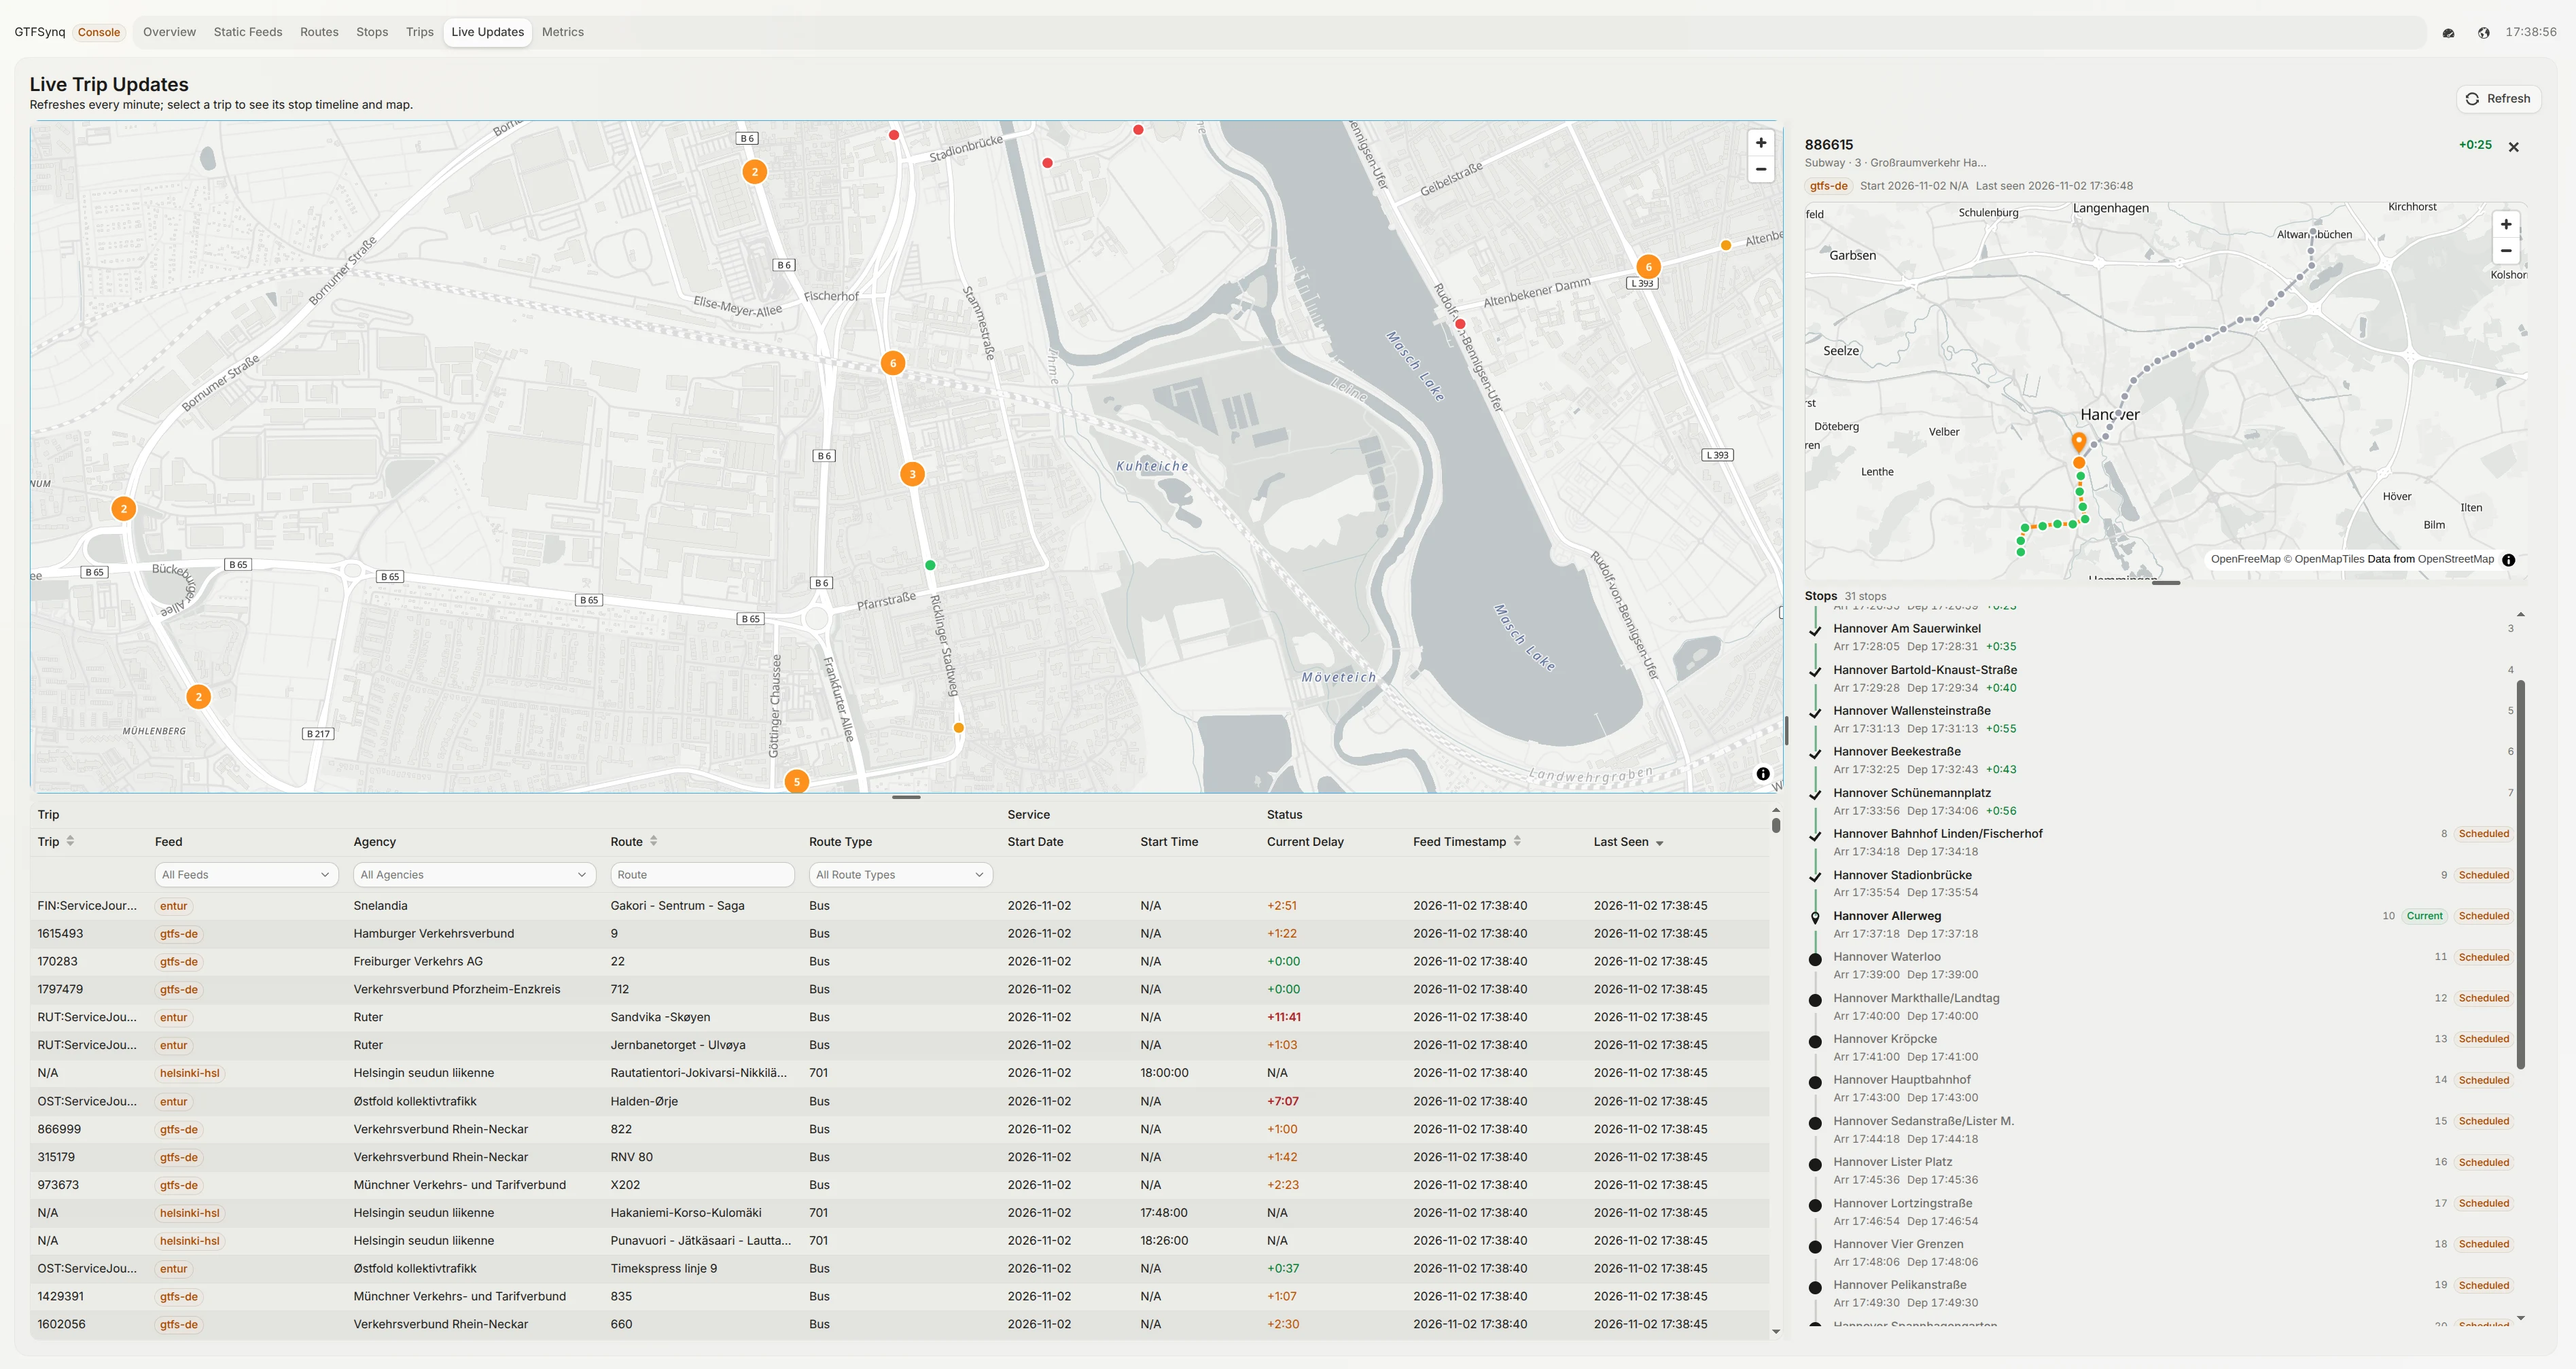
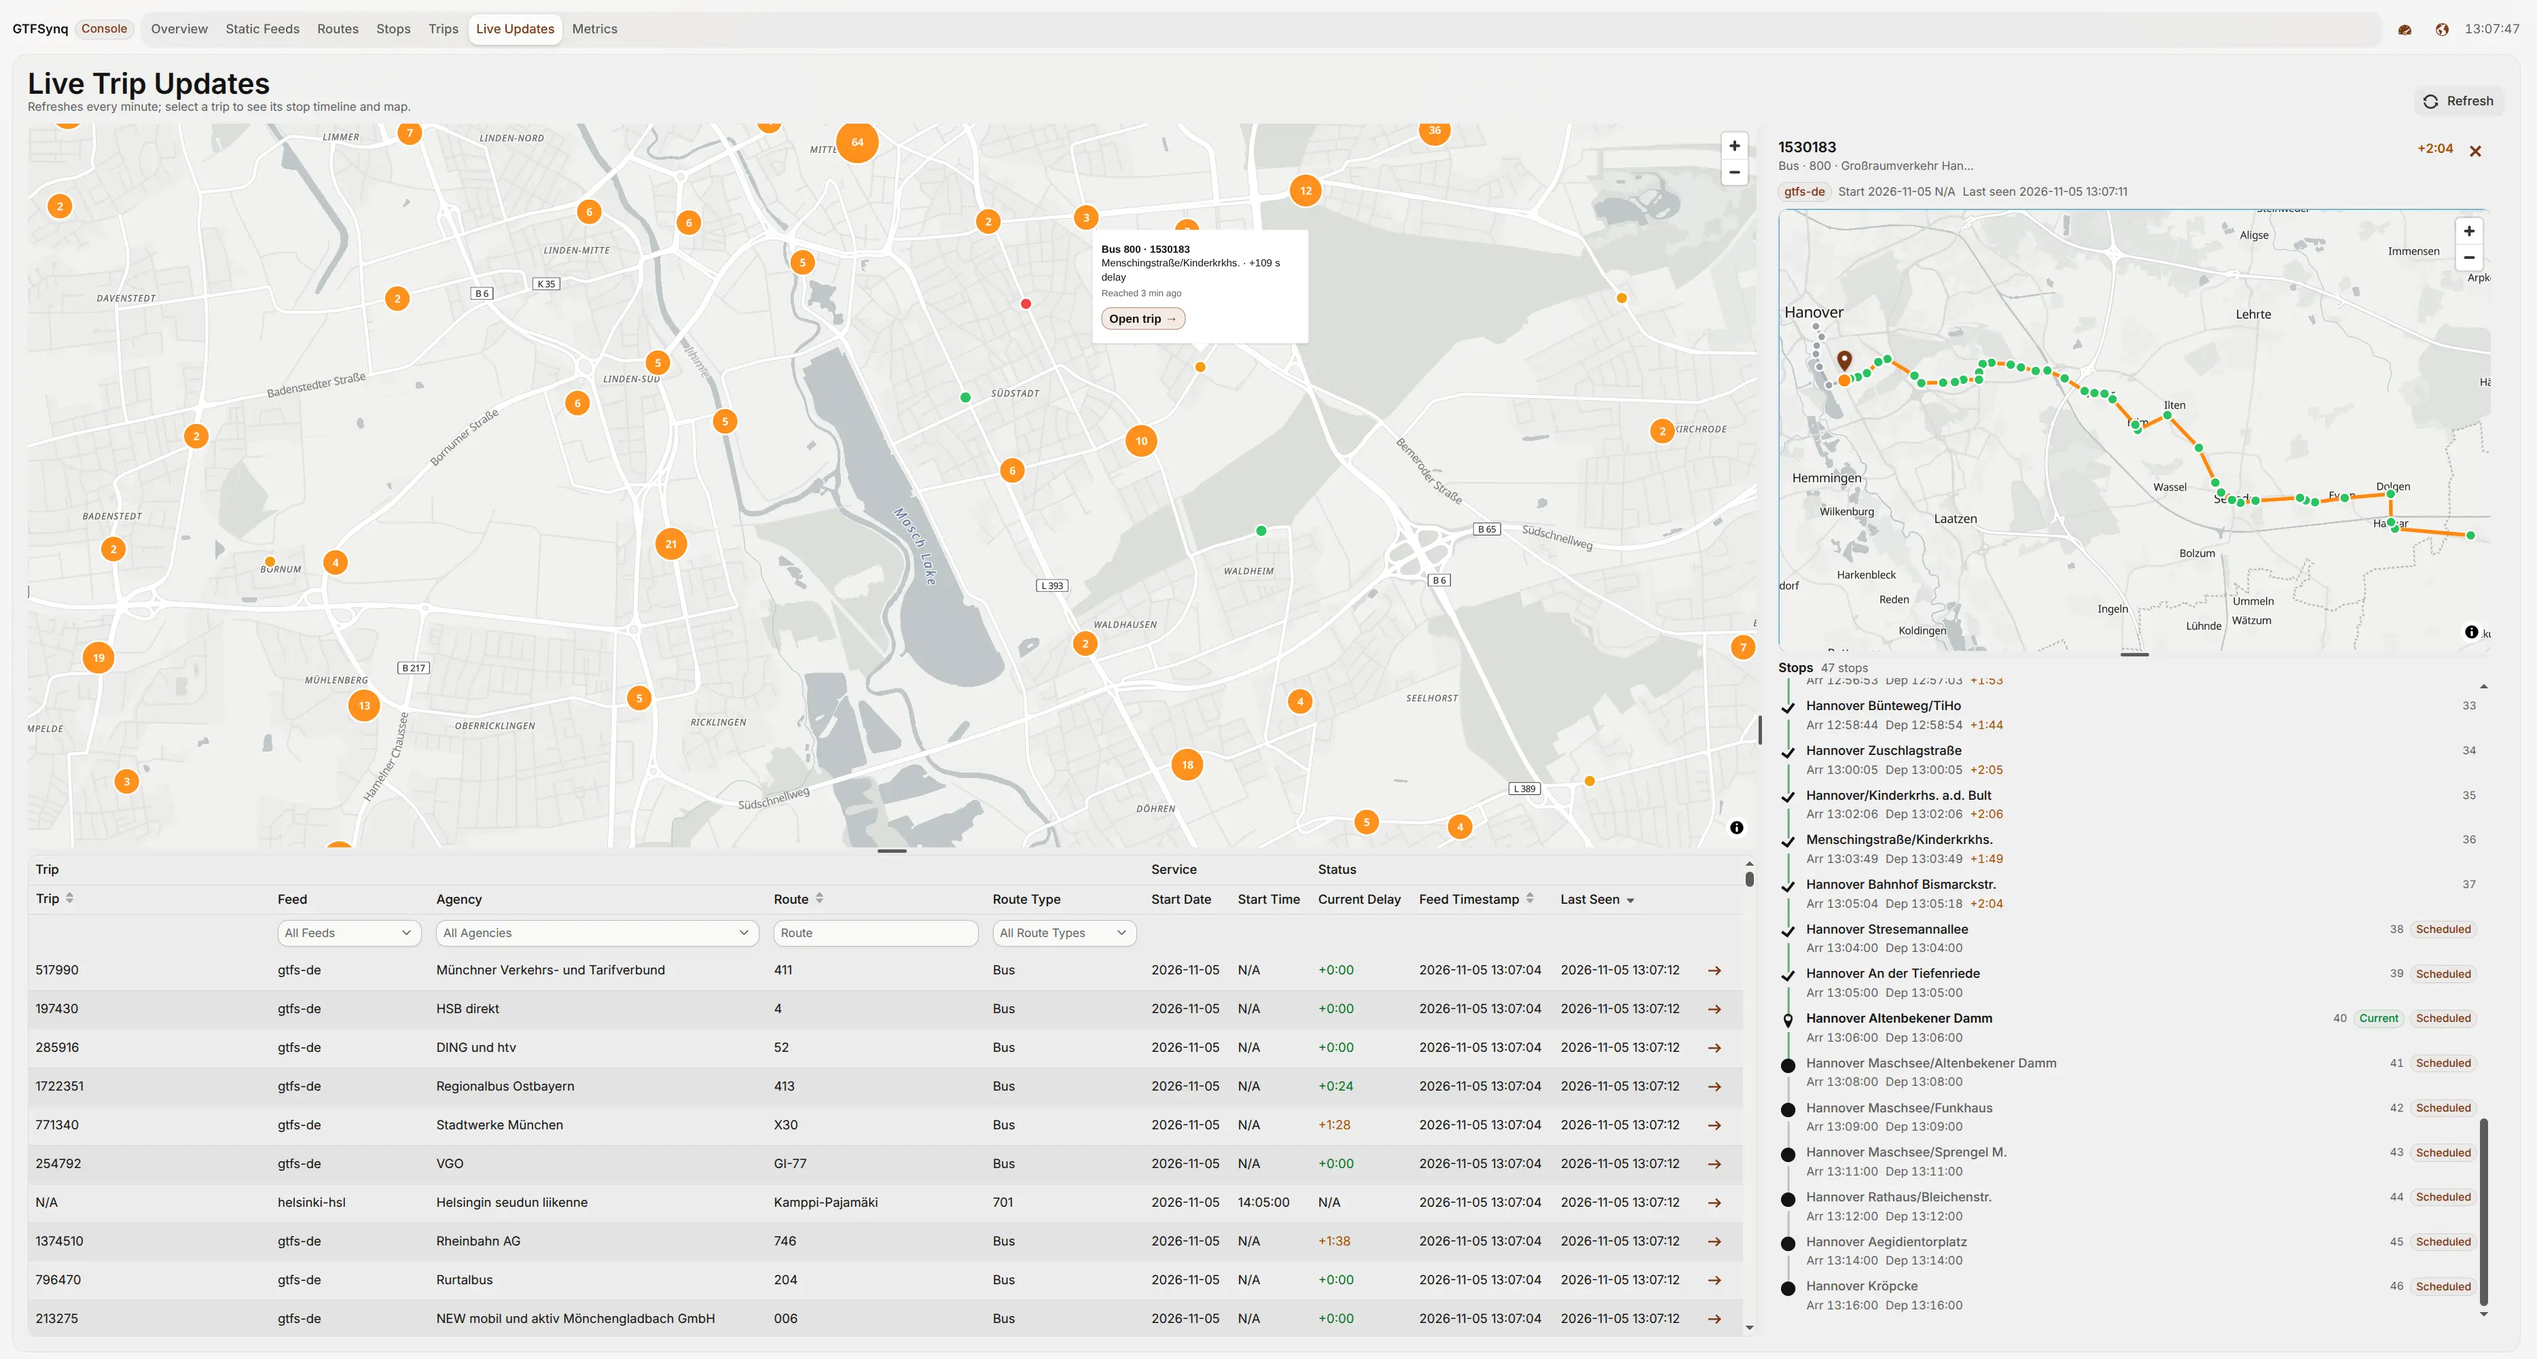
docs: Update live updates image

diff --git a/README.md b/README.md
@@ -16,7 +16,7 @@
 GTFSynq is a modern Quarkus transit data platform for ingesting, processing, storing, and analyzing **GTFS-RT (General Transit Feed Specification - Real-Time)** feeds and **GTFS CSV** static feed data
 
 <div align="center">
-  <img src="docs/images/live-updates.webp" alt="GTFSynq console on the Live Trip Updates page: a clustered overview map of every trip with a reported position, the live trip table below it, and the detail pane with the selected trip's route map above its stop timeline" width="100%" />
+  <img src="docs/images/live-updates.webp" alt="GTFSynq console on the Live Trip Updates page: a clustered map of every trip with a reported position, the live trip table below it, and the detail pane with the selected trip's route map above its stop timeline" width="100%" />
   <p><em>The Live Trip Updates page: every trip with a reported position on the overview map, the live table below it, and the selected trip's map and stop timeline in the detail pane</em></p>
 </div>
 
